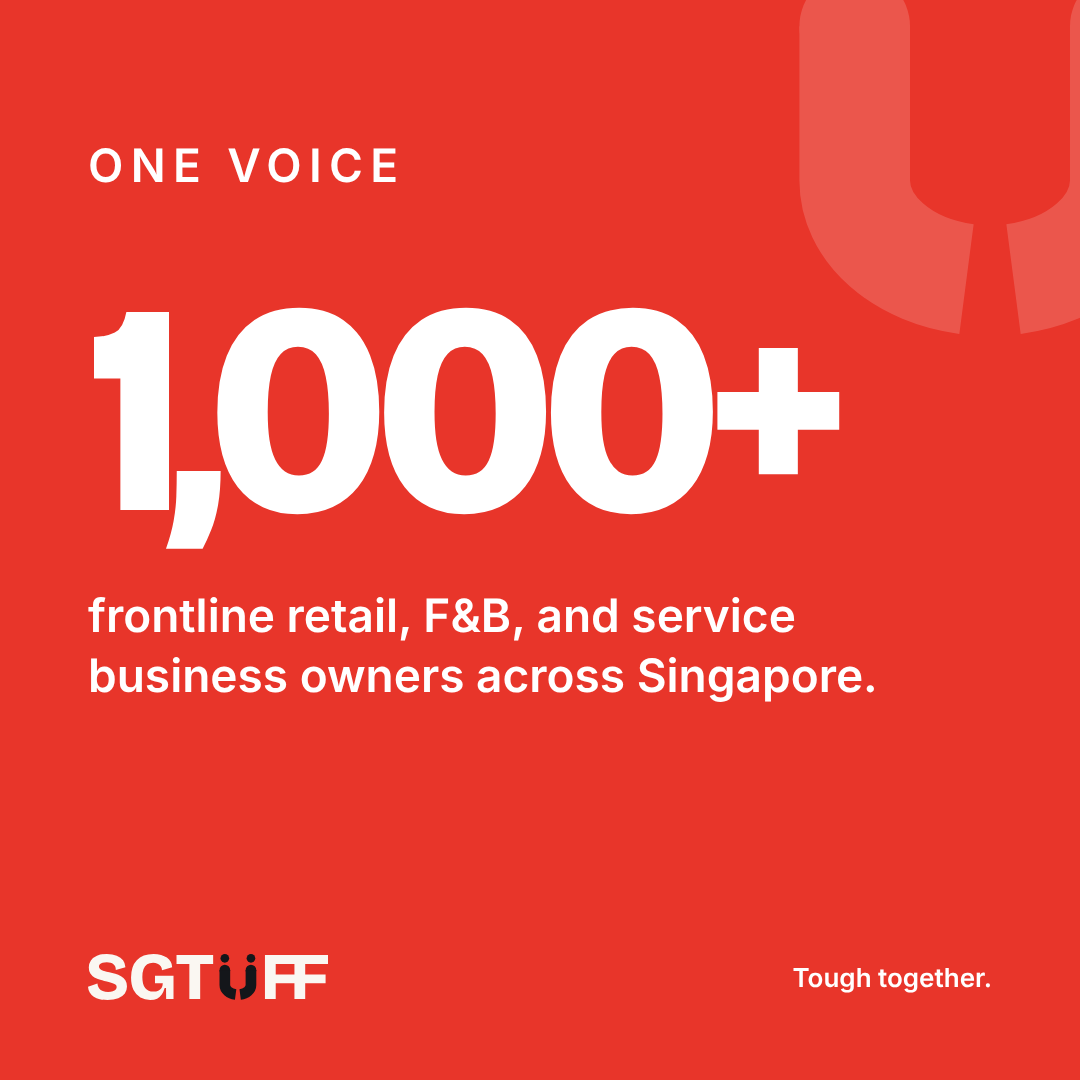
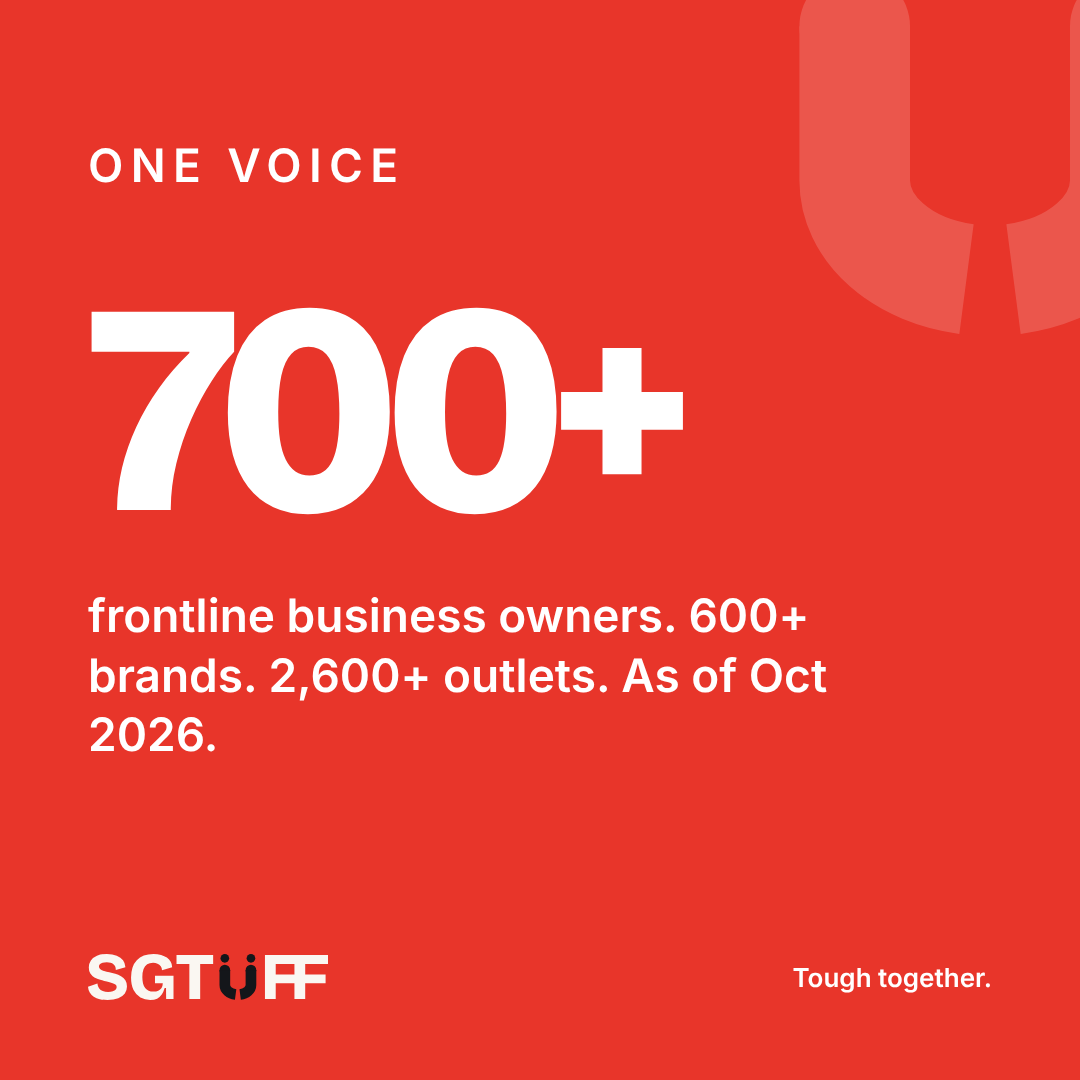
Apply 700+ / 600+ / 2,600+ (as of Oct 2026) member baseline to new collateral, website and mirror
Claude-Session: https://claude.ai/code/session_01TPaa9MPFXYTdpN76XjCpvL

diff --git a/collateral/event/event-kit.html b/collateral/event/event-kit.html
@@ -51,7 +51,7 @@ body{background:#EFEAE2;font-family:var(--font-text);color:var(--ink);padding:32
 <div class="zs"><div class="canvas bd"><img src="../../assets/brand/logo/sgtuff-wordmark-primary.svg" alt=""><svg class="tm" xmlns="http://www.w3.org/2000/svg" viewBox="15 7 170 210" aria-hidden="true"><circle cx="42.5" cy="30" r="19" fill="#E8352A"/><circle cx="157.5" cy="30" r="19" fill="#E8352A"/><circle cx="42.5" cy="82" r="23.5" fill="#E8352A"/><circle cx="157.5" cy="82" r="23.5" fill="#E8352A"/><path d="M42.5 82 V147.5 A57.5 42.5 0 0 0 90 189.35" fill="none" stroke="#E8352A" stroke-width="47"/><path d="M157.5 82 V147.5 A57.5 42.5 0 0 1 110 189.35" fill="none" stroke="#E8352A" stroke-width="47"/></svg><img src="../../assets/brand/logo/sgtuff-wordmark-primary.svg" alt=""><svg class="tm" xmlns="http://www.w3.org/2000/svg" viewBox="15 7 170 210" aria-hidden="true"><circle cx="42.5" cy="30" r="19" fill="#E8352A"/><circle cx="157.5" cy="30" r="19" fill="#E8352A"/><circle cx="42.5" cy="82" r="23.5" fill="#E8352A"/><circle cx="157.5" cy="82" r="23.5" fill="#E8352A"/><path d="M42.5 82 V147.5 A57.5 42.5 0 0 0 90 189.35" fill="none" stroke="#E8352A" stroke-width="47"/><path d="M157.5 82 V147.5 A57.5 42.5 0 0 1 110 189.35" fill="none" stroke="#E8352A" stroke-width="47"/></svg><img src="../../assets/brand/logo/sgtuff-wordmark-primary.svg" alt=""><svg class="tm" xmlns="http://www.w3.org/2000/svg" viewBox="15 7 170 210" aria-hidden="true"><circle cx="42.5" cy="30" r="19" fill="#E8352A"/><circle cx="157.5" cy="30" r="19" fill="#E8352A"/><circle cx="42.5" cy="82" r="23.5" fill="#E8352A"/><circle cx="157.5" cy="82" r="23.5" fill="#E8352A"/><path d="M42.5 82 V147.5 A57.5 42.5 0 0 0 90 189.35" fill="none" stroke="#E8352A" stroke-width="47"/><path d="M157.5 82 V147.5 A57.5 42.5 0 0 1 110 189.35" fill="none" stroke="#E8352A" stroke-width="47"/></svg><svg class="tm" xmlns="http://www.w3.org/2000/svg" viewBox="15 7 170 210" aria-hidden="true"><circle cx="42.5" cy="30" r="19" fill="#E8352A"/><circle cx="157.5" cy="30" r="19" fill="#E8352A"/><circle cx="42.5" cy="82" r="23.5" fill="#E8352A"/><circle cx="157.5" cy="82" r="23.5" fill="#E8352A"/><path d="M42.5 82 V147.5 A57.5 42.5 0 0 0 90 189.35" fill="none" stroke="#E8352A" stroke-width="47"/><path d="M157.5 82 V147.5 A57.5 42.5 0 0 1 110 189.35" fill="none" stroke="#E8352A" stroke-width="47"/></svg><img src="../../assets/brand/logo/sgtuff-wordmark-primary.svg" alt=""><svg class="tm" xmlns="http://www.w3.org/2000/svg" viewBox="15 7 170 210" aria-hidden="true"><circle cx="42.5" cy="30" r="19" fill="#E8352A"/><circle cx="157.5" cy="30" r="19" fill="#E8352A"/><circle cx="42.5" cy="82" r="23.5" fill="#E8352A"/><circle cx="157.5" cy="82" r="23.5" fill="#E8352A"/><path d="M42.5 82 V147.5 A57.5 42.5 0 0 0 90 189.35" fill="none" stroke="#E8352A" stroke-width="47"/><path d="M157.5 82 V147.5 A57.5 42.5 0 0 1 110 189.35" fill="none" stroke="#E8352A" stroke-width="47"/></svg><img src="../../assets/brand/logo/sgtuff-wordmark-primary.svg" alt=""><svg class="tm" xmlns="http://www.w3.org/2000/svg" viewBox="15 7 170 210" aria-hidden="true"><circle cx="42.5" cy="30" r="19" fill="#E8352A"/><circle cx="157.5" cy="30" r="19" fill="#E8352A"/><circle cx="42.5" cy="82" r="23.5" fill="#E8352A"/><circle cx="157.5" cy="82" r="23.5" fill="#E8352A"/><path d="M42.5 82 V147.5 A57.5 42.5 0 0 0 90 189.35" fill="none" stroke="#E8352A" stroke-width="47"/><path d="M157.5 82 V147.5 A57.5 42.5 0 0 1 110 189.35" fill="none" stroke="#E8352A" stroke-width="47"/></svg><img src="../../assets/brand/logo/sgtuff-wordmark-primary.svg" alt=""><img src="../../assets/brand/logo/sgtuff-wordmark-primary.svg" alt=""><svg class="tm" xmlns="http://www.w3.org/2000/svg" viewBox="15 7 170 210" aria-hidden="true"><circle cx="42.5" cy="30" r="19" fill="#E8352A"/><circle cx="157.5" cy="30" r="19" fill="#E8352A"/><circle cx="42.5" cy="82" r="23.5" fill="#E8352A"/><circle cx="157.5" cy="82" r="23.5" fill="#E8352A"/><path d="M42.5 82 V147.5 A57.5 42.5 0 0 0 90 189.35" fill="none" stroke="#E8352A" stroke-width="47"/><path d="M157.5 82 V147.5 A57.5 42.5 0 0 1 110 189.35" fill="none" stroke="#E8352A" stroke-width="47"/></svg><img src="../../assets/brand/logo/sgtuff-wordmark-primary.svg" alt=""><svg class="tm" xmlns="http://www.w3.org/2000/svg" viewBox="15 7 170 210" aria-hidden="true"><circle cx="42.5" cy="30" r="19" fill="#E8352A"/><circle cx="157.5" cy="30" r="19" fill="#E8352A"/><circle cx="42.5" cy="82" r="23.5" fill="#E8352A"/><circle cx="157.5" cy="82" r="23.5" fill="#E8352A"/><path d="M42.5 82 V147.5 A57.5 42.5 0 0 0 90 189.35" fill="none" stroke="#E8352A" stroke-width="47"/><path d="M157.5 82 V147.5 A57.5 42.5 0 0 1 110 189.35" fill="none" stroke="#E8352A" stroke-width="47"/></svg><img src="../../assets/brand/logo/sgtuff-wordmark-primary.svg" alt=""><svg class="tm" xmlns="http://www.w3.org/2000/svg" viewBox="15 7 170 210" aria-hidden="true"><circle cx="42.5" cy="30" r="19" fill="#E8352A"/><circle cx="157.5" cy="30" r="19" fill="#E8352A"/><circle cx="42.5" cy="82" r="23.5" fill="#E8352A"/><circle cx="157.5" cy="82" r="23.5" fill="#E8352A"/><path d="M42.5 82 V147.5 A57.5 42.5 0 0 0 90 189.35" fill="none" stroke="#E8352A" stroke-width="47"/><path d="M157.5 82 V147.5 A57.5 42.5 0 0 1 110 189.35" fill="none" stroke="#E8352A" stroke-width="47"/></svg><svg class="tm" xmlns="http://www.w3.org/2000/svg" viewBox="15 7 170 210" aria-hidden="true"><circle cx="42.5" cy="30" r="19" fill="#E8352A"/><circle cx="157.5" cy="30" r="19" fill="#E8352A"/><circle cx="42.5" cy="82" r="23.5" fill="#E8352A"/><circle cx="157.5" cy="82" r="23.5" fill="#E8352A"/><path d="M42.5 82 V147.5 A57.5 42.5 0 0 0 90 189.35" fill="none" stroke="#E8352A" stroke-width="47"/><path d="M157.5 82 V147.5 A57.5 42.5 0 0 1 110 189.35" fill="none" stroke="#E8352A" stroke-width="47"/></svg><img src="../../assets/brand/logo/sgtuff-wordmark-primary.svg" alt=""><svg class="tm" xmlns="http://www.w3.org/2000/svg" viewBox="15 7 170 210" aria-hidden="true"><circle cx="42.5" cy="30" r="19" fill="#E8352A"/><circle cx="157.5" cy="30" r="19" fill="#E8352A"/><circle cx="42.5" cy="82" r="23.5" fill="#E8352A"/><circle cx="157.5" cy="82" r="23.5" fill="#E8352A"/><path d="M42.5 82 V147.5 A57.5 42.5 0 0 0 90 189.35" fill="none" stroke="#E8352A" stroke-width="47"/><path d="M157.5 82 V147.5 A57.5 42.5 0 0 1 110 189.35" fill="none" stroke="#E8352A" stroke-width="47"/></svg><img src="../../assets/brand/logo/sgtuff-wordmark-primary.svg" alt=""><svg class="tm" xmlns="http://www.w3.org/2000/svg" viewBox="15 7 170 210" aria-hidden="true"><circle cx="42.5" cy="30" r="19" fill="#E8352A"/><circle cx="157.5" cy="30" r="19" fill="#E8352A"/><circle cx="42.5" cy="82" r="23.5" fill="#E8352A"/><circle cx="157.5" cy="82" r="23.5" fill="#E8352A"/><path d="M42.5 82 V147.5 A57.5 42.5 0 0 0 90 189.35" fill="none" stroke="#E8352A" stroke-width="47"/><path d="M157.5 82 V147.5 A57.5 42.5 0 0 1 110 189.35" fill="none" stroke="#E8352A" stroke-width="47"/></svg><img src="../../assets/brand/logo/sgtuff-wordmark-primary.svg" alt=""><img src="../../assets/brand/logo/sgtuff-wordmark-primary.svg" alt=""><svg class="tm" xmlns="http://www.w3.org/2000/svg" viewBox="15 7 170 210" aria-hidden="true"><circle cx="42.5" cy="30" r="19" fill="#E8352A"/><circle cx="157.5" cy="30" r="19" fill="#E8352A"/><circle cx="42.5" cy="82" r="23.5" fill="#E8352A"/><circle cx="157.5" cy="82" r="23.5" fill="#E8352A"/><path d="M42.5 82 V147.5 A57.5 42.5 0 0 0 90 189.35" fill="none" stroke="#E8352A" stroke-width="47"/><path d="M157.5 82 V147.5 A57.5 42.5 0 0 1 110 189.35" fill="none" stroke="#E8352A" stroke-width="47"/></svg><img src="../../assets/brand/logo/sgtuff-wordmark-primary.svg" alt=""><svg class="tm" xmlns="http://www.w3.org/2000/svg" viewBox="15 7 170 210" aria-hidden="true"><circle cx="42.5" cy="30" r="19" fill="#E8352A"/><circle cx="157.5" cy="30" r="19" fill="#E8352A"/><circle cx="42.5" cy="82" r="23.5" fill="#E8352A"/><circle cx="157.5" cy="82" r="23.5" fill="#E8352A"/><path d="M42.5 82 V147.5 A57.5 42.5 0 0 0 90 189.35" fill="none" stroke="#E8352A" stroke-width="47"/><path d="M157.5 82 V147.5 A57.5 42.5 0 0 1 110 189.35" fill="none" stroke="#E8352A" stroke-width="47"/></svg><img src="../../assets/brand/logo/sgtuff-wordmark-primary.svg" alt=""><svg class="tm" xmlns="http://www.w3.org/2000/svg" viewBox="15 7 170 210" aria-hidden="true"><circle cx="42.5" cy="30" r="19" fill="#E8352A"/><circle cx="157.5" cy="30" r="19" fill="#E8352A"/><circle cx="42.5" cy="82" r="23.5" fill="#E8352A"/><circle cx="157.5" cy="82" r="23.5" fill="#E8352A"/><path d="M42.5 82 V147.5 A57.5 42.5 0 0 0 90 189.35" fill="none" stroke="#E8352A" stroke-width="47"/><path d="M157.5 82 V147.5 A57.5 42.5 0 0 1 110 189.35" fill="none" stroke="#E8352A" stroke-width="47"/></svg><svg class="tm" xmlns="http://www.w3.org/2000/svg" viewBox="15 7 170 210" aria-hidden="true"><circle cx="42.5" cy="30" r="19" fill="#E8352A"/><circle cx="157.5" cy="30" r="19" fill="#E8352A"/><circle cx="42.5" cy="82" r="23.5" fill="#E8352A"/><circle cx="157.5" cy="82" r="23.5" fill="#E8352A"/><path d="M42.5 82 V147.5 A57.5 42.5 0 0 0 90 189.35" fill="none" stroke="#E8352A" stroke-width="47"/><path d="M157.5 82 V147.5 A57.5 42.5 0 0 1 110 189.35" fill="none" stroke="#E8352A" stroke-width="47"/></svg><img src="../../assets/brand/logo/sgtuff-wordmark-primary.svg" alt=""><svg class="tm" xmlns="http://www.w3.org/2000/svg" viewBox="15 7 170 210" aria-hidden="true"><circle cx="42.5" cy="30" r="19" fill="#E8352A"/><circle cx="157.5" cy="30" r="19" fill="#E8352A"/><circle cx="42.5" cy="82" r="23.5" fill="#E8352A"/><circle cx="157.5" cy="82" r="23.5" fill="#E8352A"/><path d="M42.5 82 V147.5 A57.5 42.5 0 0 0 90 189.35" fill="none" stroke="#E8352A" stroke-width="47"/><path d="M157.5 82 V147.5 A57.5 42.5 0 0 1 110 189.35" fill="none" stroke="#E8352A" stroke-width="47"/></svg><img src="../../assets/brand/logo/sgtuff-wordmark-primary.svg" alt=""><svg class="tm" xmlns="http://www.w3.org/2000/svg" viewBox="15 7 170 210" aria-hidden="true"><circle cx="42.5" cy="30" r="19" fill="#E8352A"/><circle cx="157.5" cy="30" r="19" fill="#E8352A"/><circle cx="42.5" cy="82" r="23.5" fill="#E8352A"/><circle cx="157.5" cy="82" r="23.5" fill="#E8352A"/><path d="M42.5 82 V147.5 A57.5 42.5 0 0 0 90 189.35" fill="none" stroke="#E8352A" stroke-width="47"/><path d="M157.5 82 V147.5 A57.5 42.5 0 0 1 110 189.35" fill="none" stroke="#E8352A" stroke-width="47"/></svg><img src="../../assets/brand/logo/sgtuff-wordmark-primary.svg" alt=""><img src="../../assets/brand/logo/sgtuff-wordmark-primary.svg" alt=""><svg class="tm" xmlns="http://www.w3.org/2000/svg" viewBox="15 7 170 210" aria-hidden="true"><circle cx="42.5" cy="30" r="19" fill="#E8352A"/><circle cx="157.5" cy="30" r="19" fill="#E8352A"/><circle cx="42.5" cy="82" r="23.5" fill="#E8352A"/><circle cx="157.5" cy="82" r="23.5" fill="#E8352A"/><path d="M42.5 82 V147.5 A57.5 42.5 0 0 0 90 189.35" fill="none" stroke="#E8352A" stroke-width="47"/><path d="M157.5 82 V147.5 A57.5 42.5 0 0 1 110 189.35" fill="none" stroke="#E8352A" stroke-width="47"/></svg><img src="../../assets/brand/logo/sgtuff-wordmark-primary.svg" alt=""><svg class="tm" xmlns="http://www.w3.org/2000/svg" viewBox="15 7 170 210" aria-hidden="true"><circle cx="42.5" cy="30" r="19" fill="#E8352A"/><circle cx="157.5" cy="30" r="19" fill="#E8352A"/><circle cx="42.5" cy="82" r="23.5" fill="#E8352A"/><circle cx="157.5" cy="82" r="23.5" fill="#E8352A"/><path d="M42.5 82 V147.5 A57.5 42.5 0 0 0 90 189.35" fill="none" stroke="#E8352A" stroke-width="47"/><path d="M157.5 82 V147.5 A57.5 42.5 0 0 1 110 189.35" fill="none" stroke="#E8352A" stroke-width="47"/></svg><img src="../../assets/brand/logo/sgtuff-wordmark-primary.svg" alt=""><svg class="tm" xmlns="http://www.w3.org/2000/svg" viewBox="15 7 170 210" aria-hidden="true"><circle cx="42.5" cy="30" r="19" fill="#E8352A"/><circle cx="157.5" cy="30" r="19" fill="#E8352A"/><circle cx="42.5" cy="82" r="23.5" fill="#E8352A"/><circle cx="157.5" cy="82" r="23.5" fill="#E8352A"/><path d="M42.5 82 V147.5 A57.5 42.5 0 0 0 90 189.35" fill="none" stroke="#E8352A" stroke-width="47"/><path d="M157.5 82 V147.5 A57.5 42.5 0 0 1 110 189.35" fill="none" stroke="#E8352A" stroke-width="47"/></svg><svg class="tm" xmlns="http://www.w3.org/2000/svg" viewBox="15 7 170 210" aria-hidden="true"><circle cx="42.5" cy="30" r="19" fill="#E8352A"/><circle cx="157.5" cy="30" r="19" fill="#E8352A"/><circle cx="42.5" cy="82" r="23.5" fill="#E8352A"/><circle cx="157.5" cy="82" r="23.5" fill="#E8352A"/><path d="M42.5 82 V147.5 A57.5 42.5 0 0 0 90 189.35" fill="none" stroke="#E8352A" stroke-width="47"/><path d="M157.5 82 V147.5 A57.5 42.5 0 0 1 110 189.35" fill="none" stroke="#E8352A" stroke-width="47"/></svg><img src="../../assets/brand/logo/sgtuff-wordmark-primary.svg" alt=""><svg class="tm" xmlns="http://www.w3.org/2000/svg" viewBox="15 7 170 210" aria-hidden="true"><circle cx="42.5" cy="30" r="19" fill="#E8352A"/><circle cx="157.5" cy="30" r="19" fill="#E8352A"/><circle cx="42.5" cy="82" r="23.5" fill="#E8352A"/><circle cx="157.5" cy="82" r="23.5" fill="#E8352A"/><path d="M42.5 82 V147.5 A57.5 42.5 0 0 0 90 189.35" fill="none" stroke="#E8352A" stroke-width="47"/><path d="M157.5 82 V147.5 A57.5 42.5 0 0 1 110 189.35" fill="none" stroke="#E8352A" stroke-width="47"/></svg><img src="../../assets/brand/logo/sgtuff-wordmark-primary.svg" alt=""><svg class="tm" xmlns="http://www.w3.org/2000/svg" viewBox="15 7 170 210" aria-hidden="true"><circle cx="42.5" cy="30" r="19" fill="#E8352A"/><circle cx="157.5" cy="30" r="19" fill="#E8352A"/><circle cx="42.5" cy="82" r="23.5" fill="#E8352A"/><circle cx="157.5" cy="82" r="23.5" fill="#E8352A"/><path d="M42.5 82 V147.5 A57.5 42.5 0 0 0 90 189.35" fill="none" stroke="#E8352A" stroke-width="47"/><path d="M157.5 82 V147.5 A57.5 42.5 0 0 1 110 189.35" fill="none" stroke="#E8352A" stroke-width="47"/></svg><img src="../../assets/brand/logo/sgtuff-wordmark-primary.svg" alt=""></div></div>
 <p class="label">Roll-up banner · 850 × 2000 mm (shown at 25%)</p>
 <div class="zb"><div class="canvas ru"><div class="top"><img class="wm" src="../../assets/brand/logo/sgtuff-wordmark-on-red.svg" alt="SGTUFF"><h2>Small shops.<br>Strong voice.</h2></div>
-<div class="mid"><p>Representing over 1,000 frontline retail, F&amp;B, and service business owners across Singapore.</p><ul><li><i></i>Lease guidance</li><li><i></i>Dispute mediation</li><li><i></i>A seat at the fair-tenancy table</li></ul><div class="qrw"><svg xmlns="http://www.w3.org/2000/svg" viewBox="0 0 29 29" class="qr" shape-rendering="crispEdges"><path class="qrline" stroke="#14161a" d="M0 0.5h7m2 0h1m3 0h1m4 0h3m1 0h7m-29 1h1m5 0h1m1 0h2m1 0h5m2 0h1m1 0h1m1 0h1m5 0h1m-29 1h1m1 0h3m1 0h1m1 0h1m1 0h2m1 0h1m1 0h1m2 0h1m3 0h1m1 0h3m1 0h1m-29 1h1m1 0h3m1 0h1m3 0h1m1 0h2m2 0h5m1 0h1m1 0h3m1 0h1m-29 1h1m1 0h3m1 0h1m5 0h1m6 0h1m2 0h1m1 0h3m1 0h1m-29 1h1m5 0h1m2 0h2m1 0h3m2 0h4m1 0h1m5 0h1m-29 1h7m1 0h1m1 0h1m1 0h1m1 0h1m1 0h1m1 0h1m1 0h1m1 0h7m-20 1h3m1 0h7m-19 1h3m1 0h2m3 0h5m1 0h4m6 0h2m-27 1h1m2 0h2m3 0h1m1 0h5m1 0h6m1 0h2m2 0h1m-26 1h4m3 0h1m2 0h2m1 0h1m1 0h1m3 0h1m1 0h1m2 0h1m-25 1h3m2 0h2m1 0h1m1 0h1m2 0h1m3 0h1m2 0h1m1 0h1m2 0h1m-27 1h1m2 0h5m1 0h2m3 0h2m1 0h3m1 0h1m2 0h3m-25 1h2m1 0h2m3 0h2m1 0h1m2 0h2m2 0h2m1 0h2m1 0h1m-28 1h1m1 0h1m2 0h1m1 0h3m1 0h1m1 0h1m1 0h1m2 0h3m1 0h3m1 0h2m-29 1h2m2 0h1m4 0h1m3 0h4m2 0h4m1 0h2m1 0h2m-29 1h3m2 0h2m1 0h1m1 0h2m1 0h2m3 0h1m1 0h2m1 0h3m1 0h1m-24 1h1m2 0h1m1 0h1m4 0h1m6 0h1m1 0h1m2 0h1m-27 1h1m1 0h1m1 0h3m2 0h6m2 0h2m1 0h1m1 0h1m3 0h1m-25 1h2m1 0h1m4 0h1m3 0h6m1 0h3m1 0h2m1 0h1m-28 1h2m1 0h1m1 0h1m3 0h3m1 0h2m1 0h11m-20 1h2m1 0h2m3 0h5m3 0h2m1 0h2m-29 1h7m2 0h2m1 0h3m3 0h3m1 0h1m1 0h1m1 0h2m-28 1h1m5 0h1m1 0h1m2 0h2m1 0h1m5 0h1m3 0h1m2 0h2m-29 1h1m1 0h3m1 0h1m2 0h1m3 0h1m1 0h1m2 0h1m1 0h7m-27 1h1m1 0h3m1 0h1m1 0h1m1 0h1m1 0h2m3 0h1m1 0h1m4 0h2m1 0h1m-28 1h1m1 0h3m1 0h1m1 0h1m2 0h1m4 0h3m1 0h1m2 0h1m2 0h1m1 0h1m-29 1h1m5 0h1m1 0h1m1 0h3m1 0h2m4 0h2m2 0h2m1 0h1m-28 1h7m5 0h1m3 0h1m1 0h6m1 0h1m1 0h1"/></svg><span>Scan to join</span></div></div>
+<div class="mid"><p>Representing 700+ frontline business owners, 600+ brands and 2,600+ outlets across Singapore (as of Oct 2026).</p><ul><li><i></i>Lease guidance</li><li><i></i>Dispute mediation</li><li><i></i>A seat at the fair-tenancy table</li></ul><div class="qrw"><svg xmlns="http://www.w3.org/2000/svg" viewBox="0 0 29 29" class="qr" shape-rendering="crispEdges"><path class="qrline" stroke="#14161a" d="M0 0.5h7m2 0h1m3 0h1m4 0h3m1 0h7m-29 1h1m5 0h1m1 0h2m1 0h5m2 0h1m1 0h1m1 0h1m5 0h1m-29 1h1m1 0h3m1 0h1m1 0h1m1 0h2m1 0h1m1 0h1m2 0h1m3 0h1m1 0h3m1 0h1m-29 1h1m1 0h3m1 0h1m3 0h1m1 0h2m2 0h5m1 0h1m1 0h3m1 0h1m-29 1h1m1 0h3m1 0h1m5 0h1m6 0h1m2 0h1m1 0h3m1 0h1m-29 1h1m5 0h1m2 0h2m1 0h3m2 0h4m1 0h1m5 0h1m-29 1h7m1 0h1m1 0h1m1 0h1m1 0h1m1 0h1m1 0h1m1 0h1m1 0h7m-20 1h3m1 0h7m-19 1h3m1 0h2m3 0h5m1 0h4m6 0h2m-27 1h1m2 0h2m3 0h1m1 0h5m1 0h6m1 0h2m2 0h1m-26 1h4m3 0h1m2 0h2m1 0h1m1 0h1m3 0h1m1 0h1m2 0h1m-25 1h3m2 0h2m1 0h1m1 0h1m2 0h1m3 0h1m2 0h1m1 0h1m2 0h1m-27 1h1m2 0h5m1 0h2m3 0h2m1 0h3m1 0h1m2 0h3m-25 1h2m1 0h2m3 0h2m1 0h1m2 0h2m2 0h2m1 0h2m1 0h1m-28 1h1m1 0h1m2 0h1m1 0h3m1 0h1m1 0h1m1 0h1m2 0h3m1 0h3m1 0h2m-29 1h2m2 0h1m4 0h1m3 0h4m2 0h4m1 0h2m1 0h2m-29 1h3m2 0h2m1 0h1m1 0h2m1 0h2m3 0h1m1 0h2m1 0h3m1 0h1m-24 1h1m2 0h1m1 0h1m4 0h1m6 0h1m1 0h1m2 0h1m-27 1h1m1 0h1m1 0h3m2 0h6m2 0h2m1 0h1m1 0h1m3 0h1m-25 1h2m1 0h1m4 0h1m3 0h6m1 0h3m1 0h2m1 0h1m-28 1h2m1 0h1m1 0h1m3 0h3m1 0h2m1 0h11m-20 1h2m1 0h2m3 0h5m3 0h2m1 0h2m-29 1h7m2 0h2m1 0h3m3 0h3m1 0h1m1 0h1m1 0h2m-28 1h1m5 0h1m1 0h1m2 0h2m1 0h1m5 0h1m3 0h1m2 0h2m-29 1h1m1 0h3m1 0h1m2 0h1m3 0h1m1 0h1m2 0h1m1 0h7m-27 1h1m1 0h3m1 0h1m1 0h1m1 0h1m1 0h2m3 0h1m1 0h1m4 0h2m1 0h1m-28 1h1m1 0h3m1 0h1m1 0h1m2 0h1m4 0h3m1 0h1m2 0h1m2 0h1m1 0h1m-29 1h1m5 0h1m1 0h1m1 0h3m1 0h2m4 0h2m2 0h2m1 0h1m-28 1h7m5 0h1m3 0h1m1 0h6m1 0h1m1 0h1"/></svg><span>Scan to join</span></div></div>
 <div class="base"><span>Tough together.</span><small>sgtuff.org.sg</small></div></div></div>
 <p class="label">Name badges · 100 × 140 mm (Member, Committee, Guest, Media)</p>
 <div class="nbs"><div class="canvas nb"><div class="top"><img class="wm" src="../../assets/brand/logo/sgtuff-wordmark-on-red.svg" alt="SGTUFF"></div><i class="hole"></i><div class="body"><p class="nm"><span class="ph">[First name]</span></p><p class="bz"><span class="ph">[Full name]</span><br><span class="ph">[Business]</span></p><p class="role r-m">Member</p></div></div><div class="canvas nb"><div class="top"><img class="wm" src="../../assets/brand/logo/sgtuff-wordmark-on-red.svg" alt="SGTUFF"></div><i class="hole"></i><div class="body"><p class="nm"><span class="ph">[First name]</span></p><p class="bz"><span class="ph">[Full name]</span><br><span class="ph">[Business]</span></p><p class="role r-c">Committee</p></div></div><div class="canvas nb"><div class="top"><img class="wm" src="../../assets/brand/logo/sgtuff-wordmark-on-red.svg" alt="SGTUFF"></div><i class="hole"></i><div class="body"><p class="nm"><span class="ph">[First name]</span></p><p class="bz"><span class="ph">[Full name]</span><br><span class="ph">[Business]</span></p><p class="role r-g">Guest</p></div></div><div class="canvas nb"><div class="top"><img class="wm" src="../../assets/brand/logo/sgtuff-wordmark-on-red.svg" alt="SGTUFF"></div><i class="hole"></i><div class="body"><p class="nm"><span class="ph">[First name]</span></p><p class="bz"><span class="ph">[Full name]</span><br><span class="ph">[Business]</span></p><p class="role r-p">Media</p></div></div></div>

diff --git a/collateral/social/social-kit.html b/collateral/social/social-kit.html
@@ -58,13 +58,13 @@ body{background:#EFEAE2;font-family:var(--font-text);color:var(--ink);padding:32
 <div class="canvas pt p1"><i class="bar"></i><svg class="mark" xmlns="http://www.w3.org/2000/svg" viewBox="15 7 170 210" aria-hidden="true"><circle cx="42.5" cy="30" r="19" fill="#E8352A"/><circle cx="157.5" cy="30" r="19" fill="#E8352A"/><circle cx="42.5" cy="82" r="23.5" fill="#E8352A"/><circle cx="157.5" cy="82" r="23.5" fill="#E8352A"/><path d="M42.5 82 V147.5 A57.5 42.5 0 0 0 90 189.35" fill="none" stroke="#E8352A" stroke-width="47"/><path d="M157.5 82 V147.5 A57.5 42.5 0 0 1 110 189.35" fill="none" stroke="#E8352A" stroke-width="47"/></svg><p class="k">Lease tip</p><h2>Lease renewal <em>coming up?</em></h2><p>Send us your offer letter. We will benchmark it in 48 hours.</p>
 <div class="foot"><img class="wm" src="../../assets/brand/logo/sgtuff-wordmark-primary.svg" alt="SGTUFF"><span>sgtuff.org.sg</span></div></div>
 <p class="label">Stat card · 1080 × 1080</p>
-<div class="canvas sq p2"><svg class="mark" xmlns="http://www.w3.org/2000/svg" viewBox="15 7 170 210" aria-hidden="true"><circle cx="42.5" cy="30" r="19" fill="#FFFFFF"/><circle cx="157.5" cy="30" r="19" fill="#FFFFFF"/><circle cx="42.5" cy="82" r="23.5" fill="#FFFFFF"/><circle cx="157.5" cy="82" r="23.5" fill="#FFFFFF"/><path d="M42.5 82 V147.5 A57.5 42.5 0 0 0 90 189.35" fill="none" stroke="#FFFFFF" stroke-width="47"/><path d="M157.5 82 V147.5 A57.5 42.5 0 0 1 110 189.35" fill="none" stroke="#FFFFFF" stroke-width="47"/></svg><p class="k">One voice</p><p class="num">1,000+</p><p>frontline retail, F&amp;B, and service business owners across Singapore.</p>
+<div class="canvas sq p2"><svg class="mark" xmlns="http://www.w3.org/2000/svg" viewBox="15 7 170 210" aria-hidden="true"><circle cx="42.5" cy="30" r="19" fill="#FFFFFF"/><circle cx="157.5" cy="30" r="19" fill="#FFFFFF"/><circle cx="42.5" cy="82" r="23.5" fill="#FFFFFF"/><circle cx="157.5" cy="82" r="23.5" fill="#FFFFFF"/><path d="M42.5 82 V147.5 A57.5 42.5 0 0 0 90 189.35" fill="none" stroke="#FFFFFF" stroke-width="47"/><path d="M157.5 82 V147.5 A57.5 42.5 0 0 1 110 189.35" fill="none" stroke="#FFFFFF" stroke-width="47"/></svg><p class="k">One voice</p><p class="num">700+</p><p>frontline business owners. 600+ brands. 2,600+ outlets. As of Oct 2026.</p>
 <div class="foot"><img class="wm" src="../../assets/brand/logo/sgtuff-wordmark-on-red.svg" alt="SGTUFF"><span>Tough together.</span></div></div>
 <p class="label">Member quote card · 1080 × 1350 (replace highlighted text with a real, approved quote)</p>
 <div class="canvas pt p3"><p class="k">Member voices</p><div class="photo">Member<br>photo</div><p class="qm">&ldquo;</p><blockquote><span class="ph">[Member quote, in their own words. Two lines max.]</span></blockquote><cite><span class="ph">[Name], [Shop], [Estate]</span></cite>
 <div class="foot"><img class="wm" src="../../assets/brand/logo/sgtuff-wordmark-night-unity.svg" alt="SGTUFF"><span>sgtuff.org.sg</span></div></div>
 <p class="label">Story · 1080 × 1920</p>
-<div class="canvas st p4"><svg class="mark" xmlns="http://www.w3.org/2000/svg" viewBox="15 7 170 210" aria-hidden="true"><circle cx="42.5" cy="30" r="19" fill="#E8352A"/><circle cx="157.5" cy="30" r="19" fill="#E8352A"/><circle cx="42.5" cy="82" r="23.5" fill="#E8352A"/><circle cx="157.5" cy="82" r="23.5" fill="#E8352A"/><path d="M42.5 82 V147.5 A57.5 42.5 0 0 0 90 189.35" fill="none" stroke="#E8352A" stroke-width="47"/><path d="M157.5 82 V147.5 A57.5 42.5 0 0 1 110 189.35" fill="none" stroke="#E8352A" stroke-width="47"/></svg><h2>Small shops.<br>Strong voice.</h2><p>Representing over 1,000 frontline retail, F&amp;B, and service business owners across Singapore.</p><div class="qrw"><svg xmlns="http://www.w3.org/2000/svg" viewBox="0 0 29 29" class="qr" shape-rendering="crispEdges"><path class="qrline" stroke="#14161a" d="M0 0.5h7m2 0h1m3 0h1m4 0h3m1 0h7m-29 1h1m5 0h1m1 0h2m1 0h5m2 0h1m1 0h1m1 0h1m5 0h1m-29 1h1m1 0h3m1 0h1m1 0h1m1 0h2m1 0h1m1 0h1m2 0h1m3 0h1m1 0h3m1 0h1m-29 1h1m1 0h3m1 0h1m3 0h1m1 0h2m2 0h5m1 0h1m1 0h3m1 0h1m-29 1h1m1 0h3m1 0h1m5 0h1m6 0h1m2 0h1m1 0h3m1 0h1m-29 1h1m5 0h1m2 0h2m1 0h3m2 0h4m1 0h1m5 0h1m-29 1h7m1 0h1m1 0h1m1 0h1m1 0h1m1 0h1m1 0h1m1 0h1m1 0h7m-20 1h3m1 0h7m-19 1h3m1 0h2m3 0h5m1 0h4m6 0h2m-27 1h1m2 0h2m3 0h1m1 0h5m1 0h6m1 0h2m2 0h1m-26 1h4m3 0h1m2 0h2m1 0h1m1 0h1m3 0h1m1 0h1m2 0h1m-25 1h3m2 0h2m1 0h1m1 0h1m2 0h1m3 0h1m2 0h1m1 0h1m2 0h1m-27 1h1m2 0h5m1 0h2m3 0h2m1 0h3m1 0h1m2 0h3m-25 1h2m1 0h2m3 0h2m1 0h1m2 0h2m2 0h2m1 0h2m1 0h1m-28 1h1m1 0h1m2 0h1m1 0h3m1 0h1m1 0h1m1 0h1m2 0h3m1 0h3m1 0h2m-29 1h2m2 0h1m4 0h1m3 0h4m2 0h4m1 0h2m1 0h2m-29 1h3m2 0h2m1 0h1m1 0h2m1 0h2m3 0h1m1 0h2m1 0h3m1 0h1m-24 1h1m2 0h1m1 0h1m4 0h1m6 0h1m1 0h1m2 0h1m-27 1h1m1 0h1m1 0h3m2 0h6m2 0h2m1 0h1m1 0h1m3 0h1m-25 1h2m1 0h1m4 0h1m3 0h6m1 0h3m1 0h2m1 0h1m-28 1h2m1 0h1m1 0h1m3 0h3m1 0h2m1 0h11m-20 1h2m1 0h2m3 0h5m3 0h2m1 0h2m-29 1h7m2 0h2m1 0h3m3 0h3m1 0h1m1 0h1m1 0h2m-28 1h1m5 0h1m1 0h1m2 0h2m1 0h1m5 0h1m3 0h1m2 0h2m-29 1h1m1 0h3m1 0h1m2 0h1m3 0h1m1 0h1m2 0h1m1 0h7m-27 1h1m1 0h3m1 0h1m1 0h1m1 0h1m1 0h2m3 0h1m1 0h1m4 0h2m1 0h1m-28 1h1m1 0h3m1 0h1m1 0h1m2 0h1m4 0h3m1 0h1m2 0h1m2 0h1m1 0h1m-29 1h1m5 0h1m1 0h1m1 0h3m1 0h2m4 0h2m2 0h2m1 0h1m-28 1h7m5 0h1m3 0h1m1 0h6m1 0h1m1 0h1"/></svg><span>Scan to join</span></div>
+<div class="canvas st p4"><svg class="mark" xmlns="http://www.w3.org/2000/svg" viewBox="15 7 170 210" aria-hidden="true"><circle cx="42.5" cy="30" r="19" fill="#E8352A"/><circle cx="157.5" cy="30" r="19" fill="#E8352A"/><circle cx="42.5" cy="82" r="23.5" fill="#E8352A"/><circle cx="157.5" cy="82" r="23.5" fill="#E8352A"/><path d="M42.5 82 V147.5 A57.5 42.5 0 0 0 90 189.35" fill="none" stroke="#E8352A" stroke-width="47"/><path d="M157.5 82 V147.5 A57.5 42.5 0 0 1 110 189.35" fill="none" stroke="#E8352A" stroke-width="47"/></svg><h2>Small shops.<br>Strong voice.</h2><p>Representing 700+ frontline business owners, 600+ brands and 2,600+ outlets across Singapore (as of Oct 2026).</p><div class="qrw"><svg xmlns="http://www.w3.org/2000/svg" viewBox="0 0 29 29" class="qr" shape-rendering="crispEdges"><path class="qrline" stroke="#14161a" d="M0 0.5h7m2 0h1m3 0h1m4 0h3m1 0h7m-29 1h1m5 0h1m1 0h2m1 0h5m2 0h1m1 0h1m1 0h1m5 0h1m-29 1h1m1 0h3m1 0h1m1 0h1m1 0h2m1 0h1m1 0h1m2 0h1m3 0h1m1 0h3m1 0h1m-29 1h1m1 0h3m1 0h1m3 0h1m1 0h2m2 0h5m1 0h1m1 0h3m1 0h1m-29 1h1m1 0h3m1 0h1m5 0h1m6 0h1m2 0h1m1 0h3m1 0h1m-29 1h1m5 0h1m2 0h2m1 0h3m2 0h4m1 0h1m5 0h1m-29 1h7m1 0h1m1 0h1m1 0h1m1 0h1m1 0h1m1 0h1m1 0h1m1 0h7m-20 1h3m1 0h7m-19 1h3m1 0h2m3 0h5m1 0h4m6 0h2m-27 1h1m2 0h2m3 0h1m1 0h5m1 0h6m1 0h2m2 0h1m-26 1h4m3 0h1m2 0h2m1 0h1m1 0h1m3 0h1m1 0h1m2 0h1m-25 1h3m2 0h2m1 0h1m1 0h1m2 0h1m3 0h1m2 0h1m1 0h1m2 0h1m-27 1h1m2 0h5m1 0h2m3 0h2m1 0h3m1 0h1m2 0h3m-25 1h2m1 0h2m3 0h2m1 0h1m2 0h2m2 0h2m1 0h2m1 0h1m-28 1h1m1 0h1m2 0h1m1 0h3m1 0h1m1 0h1m1 0h1m2 0h3m1 0h3m1 0h2m-29 1h2m2 0h1m4 0h1m3 0h4m2 0h4m1 0h2m1 0h2m-29 1h3m2 0h2m1 0h1m1 0h2m1 0h2m3 0h1m1 0h2m1 0h3m1 0h1m-24 1h1m2 0h1m1 0h1m4 0h1m6 0h1m1 0h1m2 0h1m-27 1h1m1 0h1m1 0h3m2 0h6m2 0h2m1 0h1m1 0h1m3 0h1m-25 1h2m1 0h1m4 0h1m3 0h6m1 0h3m1 0h2m1 0h1m-28 1h2m1 0h1m1 0h1m3 0h3m1 0h2m1 0h11m-20 1h2m1 0h2m3 0h5m3 0h2m1 0h2m-29 1h7m2 0h2m1 0h3m3 0h3m1 0h1m1 0h1m1 0h2m-28 1h1m5 0h1m1 0h1m2 0h2m1 0h1m5 0h1m3 0h1m2 0h2m-29 1h1m1 0h3m1 0h1m2 0h1m3 0h1m1 0h1m2 0h1m1 0h7m-27 1h1m1 0h3m1 0h1m1 0h1m1 0h1m1 0h2m3 0h1m1 0h1m4 0h2m1 0h1m-28 1h1m1 0h3m1 0h1m1 0h1m2 0h1m4 0h3m1 0h1m2 0h1m2 0h1m1 0h1m-29 1h1m5 0h1m1 0h1m1 0h3m1 0h2m4 0h2m2 0h2m1 0h1m-28 1h7m5 0h1m3 0h1m1 0h6m1 0h1m1 0h1"/></svg><span>Scan to join</span></div>
 <div class="foot"><img class="wm" src="../../assets/brand/logo/sgtuff-wordmark-primary.svg" alt="SGTUFF"><span>sgtuff.org.sg</span></div></div>
 <p class="label">Cover · 1500 × 500 (X, LinkedIn, Facebook)</p>
 <div class="canvas cv p5"><img class="wm" src="../../assets/brand/logo/sgtuff-wordmark-on-red.svg" alt="SGTUFF"><div><h2>Small shops.<br>Strong voice.</h2><p>Tough together.</p></div></div>

diff --git a/collateral/business-cards.html b/collateral/business-cards.html
@@ -51,7 +51,7 @@ body{background:#EFEAE2;font-family:var(--font-text);color:var(--ink);padding:32
       <article class="card back">
         <img class="wm" src="../assets/brand/logo/sgtuff-wordmark-on-red.svg" alt="SGTUFF">
         <p class="tag">Tough together.</p>
-        <p class="claim">Representing over 1,000 frontline retail, F&amp;B, and service business owners across Singapore.</p>
+        <p class="claim">Representing 700+ frontline business owners, 600+ brands and 2,600+ outlets across Singapore (as of Oct 2026).</p>
         <div class="qrbox"><svg xmlns="http://www.w3.org/2000/svg" viewBox="0 0 29 29" class="qr" shape-rendering="crispEdges"><path class="qrline" stroke="#14161a" d="M0 0.5h7m2 0h1m3 0h1m4 0h3m1 0h7m-29 1h1m5 0h1m1 0h2m1 0h5m2 0h1m1 0h1m1 0h1m5 0h1m-29 1h1m1 0h3m1 0h1m1 0h1m1 0h2m1 0h1m1 0h1m2 0h1m3 0h1m1 0h3m1 0h1m-29 1h1m1 0h3m1 0h1m3 0h1m1 0h2m2 0h5m1 0h1m1 0h3m1 0h1m-29 1h1m1 0h3m1 0h1m5 0h1m6 0h1m2 0h1m1 0h3m1 0h1m-29 1h1m5 0h1m2 0h2m1 0h3m2 0h4m1 0h1m5 0h1m-29 1h7m1 0h1m1 0h1m1 0h1m1 0h1m1 0h1m1 0h1m1 0h1m1 0h7m-20 1h3m1 0h7m-19 1h3m1 0h2m3 0h5m1 0h4m6 0h2m-27 1h1m2 0h2m3 0h1m1 0h5m1 0h6m1 0h2m2 0h1m-26 1h4m3 0h1m2 0h2m1 0h1m1 0h1m3 0h1m1 0h1m2 0h1m-25 1h3m2 0h2m1 0h1m1 0h1m2 0h1m3 0h1m2 0h1m1 0h1m2 0h1m-27 1h1m2 0h5m1 0h2m3 0h2m1 0h3m1 0h1m2 0h3m-25 1h2m1 0h2m3 0h2m1 0h1m2 0h2m2 0h2m1 0h2m1 0h1m-28 1h1m1 0h1m2 0h1m1 0h3m1 0h1m1 0h1m1 0h1m2 0h3m1 0h3m1 0h2m-29 1h2m2 0h1m4 0h1m3 0h4m2 0h4m1 0h2m1 0h2m-29 1h3m2 0h2m1 0h1m1 0h2m1 0h2m3 0h1m1 0h2m1 0h3m1 0h1m-24 1h1m2 0h1m1 0h1m4 0h1m6 0h1m1 0h1m2 0h1m-27 1h1m1 0h1m1 0h3m2 0h6m2 0h2m1 0h1m1 0h1m3 0h1m-25 1h2m1 0h1m4 0h1m3 0h6m1 0h3m1 0h2m1 0h1m-28 1h2m1 0h1m1 0h1m3 0h3m1 0h2m1 0h11m-20 1h2m1 0h2m3 0h5m3 0h2m1 0h2m-29 1h7m2 0h2m1 0h3m3 0h3m1 0h1m1 0h1m1 0h2m-28 1h1m5 0h1m1 0h1m2 0h2m1 0h1m5 0h1m3 0h1m2 0h2m-29 1h1m1 0h3m1 0h1m2 0h1m3 0h1m1 0h1m2 0h1m1 0h7m-27 1h1m1 0h3m1 0h1m1 0h1m1 0h1m1 0h2m3 0h1m1 0h1m4 0h2m1 0h1m-28 1h1m1 0h3m1 0h1m1 0h1m2 0h1m4 0h3m1 0h1m2 0h1m2 0h1m1 0h1m-29 1h1m5 0h1m1 0h1m1 0h3m1 0h2m4 0h2m2 0h2m1 0h1m-28 1h7m5 0h1m3 0h1m1 0h6m1 0h1m1 0h1"/></svg><span>Join</span></div>
       </article>
     </section>
@@ -72,7 +72,7 @@ body{background:#EFEAE2;font-family:var(--font-text);color:var(--ink);padding:32
       <article class="card back">
         <img class="wm" src="../assets/brand/logo/sgtuff-wordmark-on-red.svg" alt="SGTUFF">
         <p class="tag">Tough together.</p>
-        <p class="claim">Representing over 1,000 frontline retail, F&amp;B, and service business owners across Singapore.</p>
+        <p class="claim">Representing 700+ frontline business owners, 600+ brands and 2,600+ outlets across Singapore (as of Oct 2026).</p>
         <div class="qrbox"><svg xmlns="http://www.w3.org/2000/svg" viewBox="0 0 29 29" class="qr" shape-rendering="crispEdges"><path class="qrline" stroke="#14161a" d="M0 0.5h7m2 0h1m3 0h1m4 0h3m1 0h7m-29 1h1m5 0h1m1 0h2m1 0h5m2 0h1m1 0h1m1 0h1m5 0h1m-29 1h1m1 0h3m1 0h1m1 0h1m1 0h2m1 0h1m1 0h1m2 0h1m3 0h1m1 0h3m1 0h1m-29 1h1m1 0h3m1 0h1m3 0h1m1 0h2m2 0h5m1 0h1m1 0h3m1 0h1m-29 1h1m1 0h3m1 0h1m5 0h1m6 0h1m2 0h1m1 0h3m1 0h1m-29 1h1m5 0h1m2 0h2m1 0h3m2 0h4m1 0h1m5 0h1m-29 1h7m1 0h1m1 0h1m1 0h1m1 0h1m1 0h1m1 0h1m1 0h1m1 0h7m-20 1h3m1 0h7m-19 1h3m1 0h2m3 0h5m1 0h4m6 0h2m-27 1h1m2 0h2m3 0h1m1 0h5m1 0h6m1 0h2m2 0h1m-26 1h4m3 0h1m2 0h2m1 0h1m1 0h1m3 0h1m1 0h1m2 0h1m-25 1h3m2 0h2m1 0h1m1 0h1m2 0h1m3 0h1m2 0h1m1 0h1m2 0h1m-27 1h1m2 0h5m1 0h2m3 0h2m1 0h3m1 0h1m2 0h3m-25 1h2m1 0h2m3 0h2m1 0h1m2 0h2m2 0h2m1 0h2m1 0h1m-28 1h1m1 0h1m2 0h1m1 0h3m1 0h1m1 0h1m1 0h1m2 0h3m1 0h3m1 0h2m-29 1h2m2 0h1m4 0h1m3 0h4m2 0h4m1 0h2m1 0h2m-29 1h3m2 0h2m1 0h1m1 0h2m1 0h2m3 0h1m1 0h2m1 0h3m1 0h1m-24 1h1m2 0h1m1 0h1m4 0h1m6 0h1m1 0h1m2 0h1m-27 1h1m1 0h1m1 0h3m2 0h6m2 0h2m1 0h1m1 0h1m3 0h1m-25 1h2m1 0h1m4 0h1m3 0h6m1 0h3m1 0h2m1 0h1m-28 1h2m1 0h1m1 0h1m3 0h3m1 0h2m1 0h11m-20 1h2m1 0h2m3 0h5m3 0h2m1 0h2m-29 1h7m2 0h2m1 0h3m3 0h3m1 0h1m1 0h1m1 0h2m-28 1h1m5 0h1m1 0h1m2 0h2m1 0h1m5 0h1m3 0h1m2 0h2m-29 1h1m1 0h3m1 0h1m2 0h1m3 0h1m1 0h1m2 0h1m1 0h7m-27 1h1m1 0h3m1 0h1m1 0h1m1 0h1m1 0h2m3 0h1m1 0h1m4 0h2m1 0h1m-28 1h1m1 0h3m1 0h1m1 0h1m2 0h1m4 0h3m1 0h1m2 0h1m2 0h1m1 0h1m-29 1h1m5 0h1m1 0h1m1 0h3m1 0h2m4 0h2m2 0h2m1 0h1m-28 1h7m5 0h1m3 0h1m1 0h6m1 0h1m1 0h1"/></svg><span>Join</span></div>
       </article>
     </section>

diff --git a/collateral/whatsapp/whatsapp-kit.html b/collateral/whatsapp/whatsapp-kit.html
@@ -49,7 +49,7 @@ body{background:#EFEAE2;font-family:var(--font-text);color:var(--ink);padding:32
 <div class="canvas w1"><i class="bar"></i><div class="row"><img class="wm" src="../../assets/brand/logo/sgtuff-wordmark-primary.svg" alt="SGTUFF"><span class="tag">Member update</span><span class="date"><span class="ph">[24 Oct 2026]</span></span></div>
 <h2><span class="ph">[Headline in six words or fewer]</span></h2><p><span class="ph">[One line on what members need to do.]</span></p><svg class="mark" xmlns="http://www.w3.org/2000/svg" viewBox="15 7 170 210" aria-hidden="true"><circle cx="42.5" cy="30" r="19" fill="#E8352A"/><circle cx="157.5" cy="30" r="19" fill="#E8352A"/><circle cx="42.5" cy="82" r="23.5" fill="#E8352A"/><circle cx="157.5" cy="82" r="23.5" fill="#E8352A"/><path d="M42.5 82 V147.5 A57.5 42.5 0 0 0 90 189.35" fill="none" stroke="#E8352A" stroke-width="47"/><path d="M157.5 82 V147.5 A57.5 42.5 0 0 1 110 189.35" fill="none" stroke="#E8352A" stroke-width="47"/></svg></div>
 <p class="label">Welcome card · 1080 × 1080</p>
-<div class="canvas w2"><svg class="mark" xmlns="http://www.w3.org/2000/svg" viewBox="15 7 170 210" aria-hidden="true"><circle cx="42.5" cy="30" r="19" fill="#E8352A"/><circle cx="157.5" cy="30" r="19" fill="#E8352A"/><circle cx="42.5" cy="82" r="23.5" fill="#E8352A"/><circle cx="157.5" cy="82" r="23.5" fill="#E8352A"/><path d="M42.5 82 V147.5 A57.5 42.5 0 0 0 90 189.35" fill="none" stroke="#E8352A" stroke-width="47"/><path d="M157.5 82 V147.5 A57.5 42.5 0 0 1 110 189.35" fill="none" stroke="#E8352A" stroke-width="47"/></svg><h2>Welcome to SGTUFF, <span class="ph" style="color:var(--ink)">[Name]</span>.</h2><p>You are one of over 1,000 owners who negotiate together. Lease question? Reply here any time.</p>
+<div class="canvas w2"><svg class="mark" xmlns="http://www.w3.org/2000/svg" viewBox="15 7 170 210" aria-hidden="true"><circle cx="42.5" cy="30" r="19" fill="#E8352A"/><circle cx="157.5" cy="30" r="19" fill="#E8352A"/><circle cx="42.5" cy="82" r="23.5" fill="#E8352A"/><circle cx="157.5" cy="82" r="23.5" fill="#E8352A"/><path d="M42.5 82 V147.5 A57.5 42.5 0 0 0 90 189.35" fill="none" stroke="#E8352A" stroke-width="47"/><path d="M157.5 82 V147.5 A57.5 42.5 0 0 1 110 189.35" fill="none" stroke="#E8352A" stroke-width="47"/></svg><h2>Welcome to SGTUFF, <span class="ph" style="color:var(--ink)">[Name]</span>.</h2><p>You are one of 700+ owners who negotiate together. Lease question? Reply here any time.</p>
 <div class="foot"><img class="wm" src="../../assets/brand/logo/sgtuff-wordmark-night-unity.svg" alt="SGTUFF"><span>Tough together.</span></div></div>
 </div>
 </body></html>

diff --git a/collateral/print/member-card.html b/collateral/print/member-card.html
@@ -43,6 +43,6 @@ body{background:#EFEAE2;font-family:var(--font-text);color:var(--ink);padding:32
 <div><p class="nm"><span class="ph">[Member name]</span></p><p class="bz"><span class="ph">[Business name]</span></p></div>
 <div class="b"><dl><dt>Member no.</dt><dd>[SG-00000]</dd><dt>Valid to</dt><dd>[MMM YYYY]</dd></dl><div class="qbox"><svg xmlns="http://www.w3.org/2000/svg" viewBox="0 0 25 25" class="qr" shape-rendering="crispEdges"><path class="qrline" stroke="#14161a" d="M0 0.5h7m2 0h1m2 0h1m1 0h2m2 0h7m-25 1h1m5 0h1m3 0h1m2 0h4m1 0h1m5 0h1m-25 1h1m1 0h3m1 0h1m2 0h4m2 0h1m2 0h1m1 0h3m1 0h1m-25 1h1m1 0h3m1 0h1m3 0h3m2 0h1m2 0h1m1 0h3m1 0h1m-25 1h1m1 0h3m1 0h1m4 0h1m2 0h3m1 0h1m1 0h3m1 0h1m-25 1h1m5 0h1m1 0h1m1 0h1m1 0h1m2 0h2m1 0h1m5 0h1m-25 1h7m1 0h1m1 0h1m1 0h1m1 0h1m1 0h1m1 0h7m-15 1h1m1 0h1m2 0h1m-16 1h1m2 0h1m1 0h2m1 0h2m2 0h3m2 0h1m1 0h1m-18 1h2m3 0h2m2 0h2m3 0h1m1 0h1m5 0h1m-25 1h1m1 0h2m2 0h1m1 0h2m1 0h2m4 0h2m4 0h2m-25 1h1m2 0h3m1 0h2m1 0h1m2 0h1m1 0h4m1 0h1m-20 1h2m1 0h4m3 0h3m3 0h3m1 0h1m1 0h2m-24 1h1m7 0h1m1 0h1m2 0h1m3 0h2m1 0h2m1 0h1m-25 1h1m1 0h2m1 0h3m1 0h1m1 0h3m4 0h3m1 0h1m1 0h1m-24 1h1m5 0h1m2 0h2m1 0h1m2 0h1m1 0h1m1 0h1m2 0h1m-24 1h2m1 0h5m1 0h2m1 0h1m3 0h7m-15 1h2m3 0h4m3 0h2m2 0h1m-25 1h7m2 0h2m2 0h1m1 0h2m1 0h1m1 0h2m1 0h2m-25 1h1m5 0h1m1 0h2m2 0h1m1 0h1m1 0h1m3 0h3m-23 1h1m1 0h3m1 0h1m2 0h1m1 0h3m2 0h6m1 0h1m-24 1h1m1 0h3m1 0h1m1 0h2m2 0h1m3 0h2m1 0h4m-23 1h1m1 0h3m1 0h1m2 0h1m9 0h2m1 0h1m1 0h1m-25 1h1m5 0h1m3 0h2m1 0h2m1 0h3m2 0h1m-22 1h7m1 0h2m3 0h1m1 0h2m2 0h1m3 0h2"/></svg></div></div></div>
 <p class="label">Back</p>
-<div class="canvas mcb"><img class="wm" src="../../assets/brand/logo/sgtuff-wordmark-on-red.svg" alt="SGTUFF"><div><b>Tough together.</b><p>Representing over 1,000 frontline retail, F&amp;B, and service business owners across Singapore.</p></div><p class="s">Lease question? WhatsApp +65 8845 6623</p></div>
+<div class="canvas mcb"><img class="wm" src="../../assets/brand/logo/sgtuff-wordmark-on-red.svg" alt="SGTUFF"><div><b>Tough together.</b><p>Representing 700+ frontline business owners, 600+ brands and 2,600+ outlets across Singapore (as of Oct 2026).</p></div><p class="s">Lease question? WhatsApp +65 8845 6623</p></div>
 </div>
 </body></html>

diff --git a/collateral/email-signature.html b/collateral/email-signature.html
@@ -32,7 +32,7 @@ ol{color:var(--stone);font-size:14px;line-height:1.7;padding-left:20px}
    </div>
   </td>
  </tr>
- <tr><td colspan="2" style="padding-top:12px;font-size:11px;line-height:16px;color:#6B665E;">Representing over 1,000 frontline retail, F&amp;B, and service business owners across Singapore.<br><span style="font-family:'Bricolage Grotesque',Arial,sans-serif;font-weight:800;color:#C1271D;font-size:12px;">Tough together.</span></td></tr>
+ <tr><td colspan="2" style="padding-top:12px;font-size:11px;line-height:16px;color:#6B665E;">Representing 700+ frontline business owners, 600+ brands and 2,600+ outlets across Singapore (as of Oct 2026).<br><span style="font-family:'Bricolage Grotesque',Arial,sans-serif;font-weight:800;color:#C1271D;font-size:12px;">Tough together.</span></td></tr>
 </table></div><button onclick="cp('s1',this)">Copy signature</button>
 <p class="label">Terence Yow</p><div class="box" id="s2">
 <table cellpadding="0" cellspacing="0" border="0" role="presentation" style="font-family:Inter,Arial,sans-serif;color:#14161A;border-collapse:collapse;">
@@ -50,7 +50,7 @@ ol{color:var(--stone);font-size:14px;line-height:1.7;padding-left:20px}
    </div>
   </td>
  </tr>
- <tr><td colspan="2" style="padding-top:12px;font-size:11px;line-height:16px;color:#6B665E;">Representing over 1,000 frontline retail, F&amp;B, and service business owners across Singapore.<br><span style="font-family:'Bricolage Grotesque',Arial,sans-serif;font-weight:800;color:#C1271D;font-size:12px;">Tough together.</span></td></tr>
+ <tr><td colspan="2" style="padding-top:12px;font-size:11px;line-height:16px;color:#6B665E;">Representing 700+ frontline business owners, 600+ brands and 2,600+ outlets across Singapore (as of Oct 2026).<br><span style="font-family:'Bricolage Grotesque',Arial,sans-serif;font-weight:800;color:#C1271D;font-size:12px;">Tough together.</span></td></tr>
 </table></div><button onclick="cp('s2',this)">Copy signature</button>
 <p class="label">Notes</p>
 <ol><li>The logo loads from www.sgtuff.org.sg/brand/. It shows once the new website is live.</li>

diff --git a/collateral/print/fact-sheet.html b/collateral/print/fact-sheet.html
@@ -53,7 +53,7 @@ body{background:#EFEAE2;font-family:var(--font-text);color:var(--ink);padding:32
 <div class="toolbar"><span>A4 fact sheet and press kit cover. Highlighted fields are filled in before use.</span><button onclick="window.print()">Print</button></div>
 <div class="stage"><div class="canvas a4">
 <div class="hd"><img class="wm" src="../../assets/brand/logo/sgtuff-wordmark-primary.svg" alt="SGTUFF"><span class="k">Fact sheet · <span class="ph">[Month 2026]</span></span></div>
-<div class="hero"><p class="k">Singapore Tenants United for Fairness</p><h1>Small shops.<br>Strong voice.</h1><p><span>Representing over 1,000 frontline retail, F&amp;B, and service business owners across Singapore.</span></p></div>
+<div class="hero"><p class="k">Singapore Tenants United for Fairness</p><h1>Small shops.<br>Strong voice.</h1><p><span>Representing 700+ frontline business owners, 600+ brands and 2,600+ outlets across Singapore (as of Oct 2026).</span></p></div>
 <div class="grid">
 <div><h3>Who we are</h3><p>SGTUFF Co-operative Ltd is a registered co-operative society. Business owners founded it in February 2020 to speak with one voice on rent and leases.</p></div>
 <div><h3>Fair tenancy</h3><p>SGTUFF Chairman Terence Yow serves on the Fair Tenancy Industry Committee. We push for fair, balanced lease terms between landlords and tenants.</p></div>

diff --git a/collateral/letterhead.html b/collateral/letterhead.html
@@ -50,7 +50,7 @@ footer .tag{font:800 10pt var(--font-display);color:var(--tuff-red-ink);white-sp
     <h1>[Subject line]</h1>
     <p>Dear [Name],</p>
     <p>SGTUFF Co-operative Ltd writes on behalf of its members.</p>
-    <p><strong>Representing over 1,000 frontline retail, F&amp;B, and service business owners across Singapore.</strong></p>
+    <p><strong>Representing 700+ frontline business owners, 600+ brands and 2,600+ outlets across Singapore (as of Oct 2026).</strong></p>
     <p>[Body of the letter. Plain, short sentences. Numbers over adjectives.]</p>
     <p>We would welcome a conversation. Please reach us at info@sgtuff.org.sg.</p>
     <p>Yours sincerely,</p>

diff --git a/BRAND.md b/BRAND.md
@@ -16,7 +16,7 @@ v1 is a tidy collateral pack, not a brand system, and it points the wrong way. I
 
 1. Approve the Grassroots Modern direction over v1's Direction A (Institutional).
 2. Logo locked: the SGTUFF wordmark with the Unity U (Section 5).
-3. Settled: one member-count baseline for all copy: "Representing over 1,000 frontline retail, F&B, and service business owners across Singapore."
+3. Settled (updated 24 Oct 2026): one member-count baseline for all copy: "Representing 700+ frontline business owners, 600+ brands and 2,600+ outlets across Singapore (as of Oct 2026)."
 4. Settled: Terence Yow is Chairman and holds the FTIC appointment; Keson Lim's card title is COM.
 
 ## 1. Audit of v1
@@ -67,7 +67,7 @@ These are the most urgent fixes, because they could embarrass SGTUFF with the go
 | "MCCY-compliant letterhead" | I found no such standard. | Remove. |
 | "Custodian of the Code of Conduct" | The code is industry-wide, not owned by SGTUFF. | Use "helped shape" or "champions". |
 | "Confidential" footer on a public letter to landlords | Contradicts the letter's purpose. | Remove from general letterhead. |
-| Member figures (700+ owners, 600 brands, 2,600+ outlets) | v1 contradicted itself and public sources. SNCF reported 1,000+ owners in 2021 ([SNCF](https://www.sncf.coop/newsletters/new-co-op-aims-to-bridge-tenant-landlord-relationships)); 700 matches the 2020 founding figure ([Mothership](https://mothership.sg/2020/05/covid-19-landlords-tenants//amp)). | Settled: use only the baseline "Representing over 1,000 frontline retail, F&B, and service business owners across Singapore." Drop brand, outlet and floor-area figures until verified. |
+| Member figures (700+ owners, 600 brands, 2,600+ outlets) | v1 contradicted itself and public sources. SNCF reported 1,000+ owners in 2021 ([SNCF](https://www.sncf.coop/newsletters/new-co-op-aims-to-bridge-tenant-landlord-relationships)); 700 matches the 2020 founding figure ([Mothership](https://mothership.sg/2020/05/covid-19-landlords-tenants//amp)). | Settled 24 Oct 2026 by Keson Lim: use only the baseline "Representing 700+ frontline business owners, 600+ brands and 2,600+ outlets across Singapore (as of Oct 2026)." Always date it. Do not mix in the older 1,000+ figure. |
 | Chairman named as Keson Lim | A recent interview names Terence Yow as chairman ([The Independent SG](https://theindependent.sg/a-sustainable-retail-sector-needs-landlords-and-tenants-to-succeed-together-singapore-tenants-united-for-fairness-sgtuff)). | Confirmed: Terence Yow is Chairman. Letters signed as Chairman go out under his name; Keson Lim's materials use the title COM. |
 | No UEN or registered address | Expected on formal letters. | Add both. |
 
@@ -118,7 +118,7 @@ SGTUFF is the owner-run co-op that gives Singapore's independent shops and eater
 
 - **Purpose:** keep Singapore's neighbourhood shops and eateries alive and thriving.
 - **Positioning:** a movement with tools. Grassroots in who runs it, modern in how it works.
-- **Member baseline (use verbatim):** "Representing over 1,000 frontline retail, F&B, and service business owners across Singapore."
+- **Member baseline (use verbatim):** "Representing 700+ frontline business owners, 600+ brands and 2,600+ outlets across Singapore (as of Oct 2026)."
 - **Proof points:** owner-run since February 2020; a seat at the fair-tenancy table; shared services and lease help that save members real money.
 - **What we are not:** a ministry, a law firm or a protest group.
 
@@ -172,7 +172,7 @@ SGTUFF sounds like a sharp shop owner explaining things to a neighbour: short se
 | Audience | Tone | Example |
 | --- | --- | --- |
 | Members | Warm, direct | "Lease renewal coming up? Send us your offer letter. We'll benchmark it in 48 hours." |
-| Prospects | Confident, inviting | "Over 1,000 owners already negotiate together. Join for $50." |
+| Prospects | Confident, inviting | "700+ owners already negotiate together. Join for $50." |
 | Landlords | Calm, evidence-led | "Across 40 member renewals this quarter, the median increase was 18%. We'd like to discuss a fairer framework." |
 | Government and media | Precise, constructive | "Three changes would protect established tenants without capping rents." |
 
@@ -398,7 +398,7 @@ Nothing goes to print until the first list is ticked; the second list is the bui
 
 ### 10.1 Verify before printing
 
-- [x] Member numbers: single baseline settled (see Section 1.3). Review it each year.
+- [x] Member numbers: single baseline settled 24 Oct 2026 (see Section 1.3). Review it each year.
 - [x] Chair and titles: Terence Yow, Chairman; Keson Lim, COM
 - [x] FTIC role: appointment held by Terence Yow
 - [x] Permission from each partner or ministry before listing them

diff --git a/CLAUDE.md b/CLAUDE.md
@@ -7,5 +7,5 @@ This repo is the **source of truth for the SGTUFF brand** (v2, locked 23 Oct 202
 - Use the tokens in `tokens/` or `tailwind.preset.js`. Do not invent new colours or fonts.
 - `legacy-v1/` is archived. Do not copy its colours (navy, gold, crimson), fonts (Cinzel, Plus Jakarta Sans) or claims ("statutory", "MCCY-compliant", "official partnerships").
 - Factual claims: Terence Yow is Chairman and holds the Fair Tenancy Industry Committee appointment. Describe SGTUFF as a registered co-operative society, not a statutory body.
-- Member count: use only this baseline, verbatim: "Representing over 1,000 frontline retail, F&B, and service business owners across Singapore." Do not add brand, outlet or floor-area numbers.
+- Member count: use only this baseline, verbatim: "Representing 700+ frontline business owners, 600+ brands and 2,600+ outlets across Singapore (as of Oct 2026)." Always show the "as of" date. Do not use the older 1,000+ figure.
 - Voice: plain, short sentences; numbers over adjectives; firm, never shrill.
